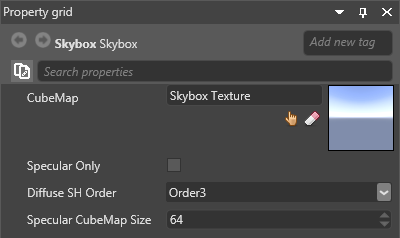
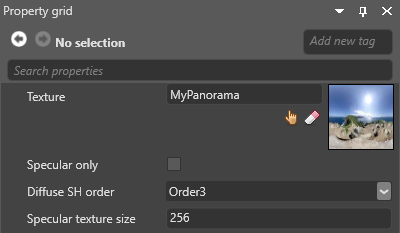
[Skyboxes] update

diff --git a/en/manual/graphics/lights-and-shadows/skybox-lights.md b/en/manual/graphics/lights-and-shadows/skybox-lights.md
@@ -72,9 +72,9 @@ When you use a skybox as a light, Xenko uses it both in compressed form ([spheri
 
 | Property     | Description                  
 | ------------ | ---------- 
-| Cube Map |  The cubemap asset used for the skybox
+| Texture |  The texture to use as skybox (eg a cubemap or panoramic texture)
 | Specular Only      |  Use the skybox only for specular lighting
-| Diffuse SH Order  | The level of detail of the compressed skybox, used for diffuse lighting (dull materials). `Order5` is more detailed than `Order3`
+| Diffuse SH order  | The level of detail of the compressed skybox, used for diffuse lighting (dull materials). `Order5` is more detailed than `Order3`.
 | Specular Cubemap Size | The texture size used for specular lighting. Larger textures have more detail.
 
 ## Skybox light properties

diff --git a/en/manual/graphics/textures/skyboxes-and-backgrounds.md b/en/manual/graphics/textures/skyboxes-and-backgrounds.md
@@ -19,7 +19,7 @@ A **cubemap** is a six-sided texture. When these textures are assembled in a cub
 
 ![Distant planet skybox](media/cubemap-cross.jpg)
 
-![Merged skybox](media/skybox-assembled.png)
+![Merged skybox](media/skybox-assembled.jpg)
 
 Currently, Game Studio can't convert image files to cuebemaps (`.dds` files). Use another application to create a cubemap from separate image files, such as:
 
